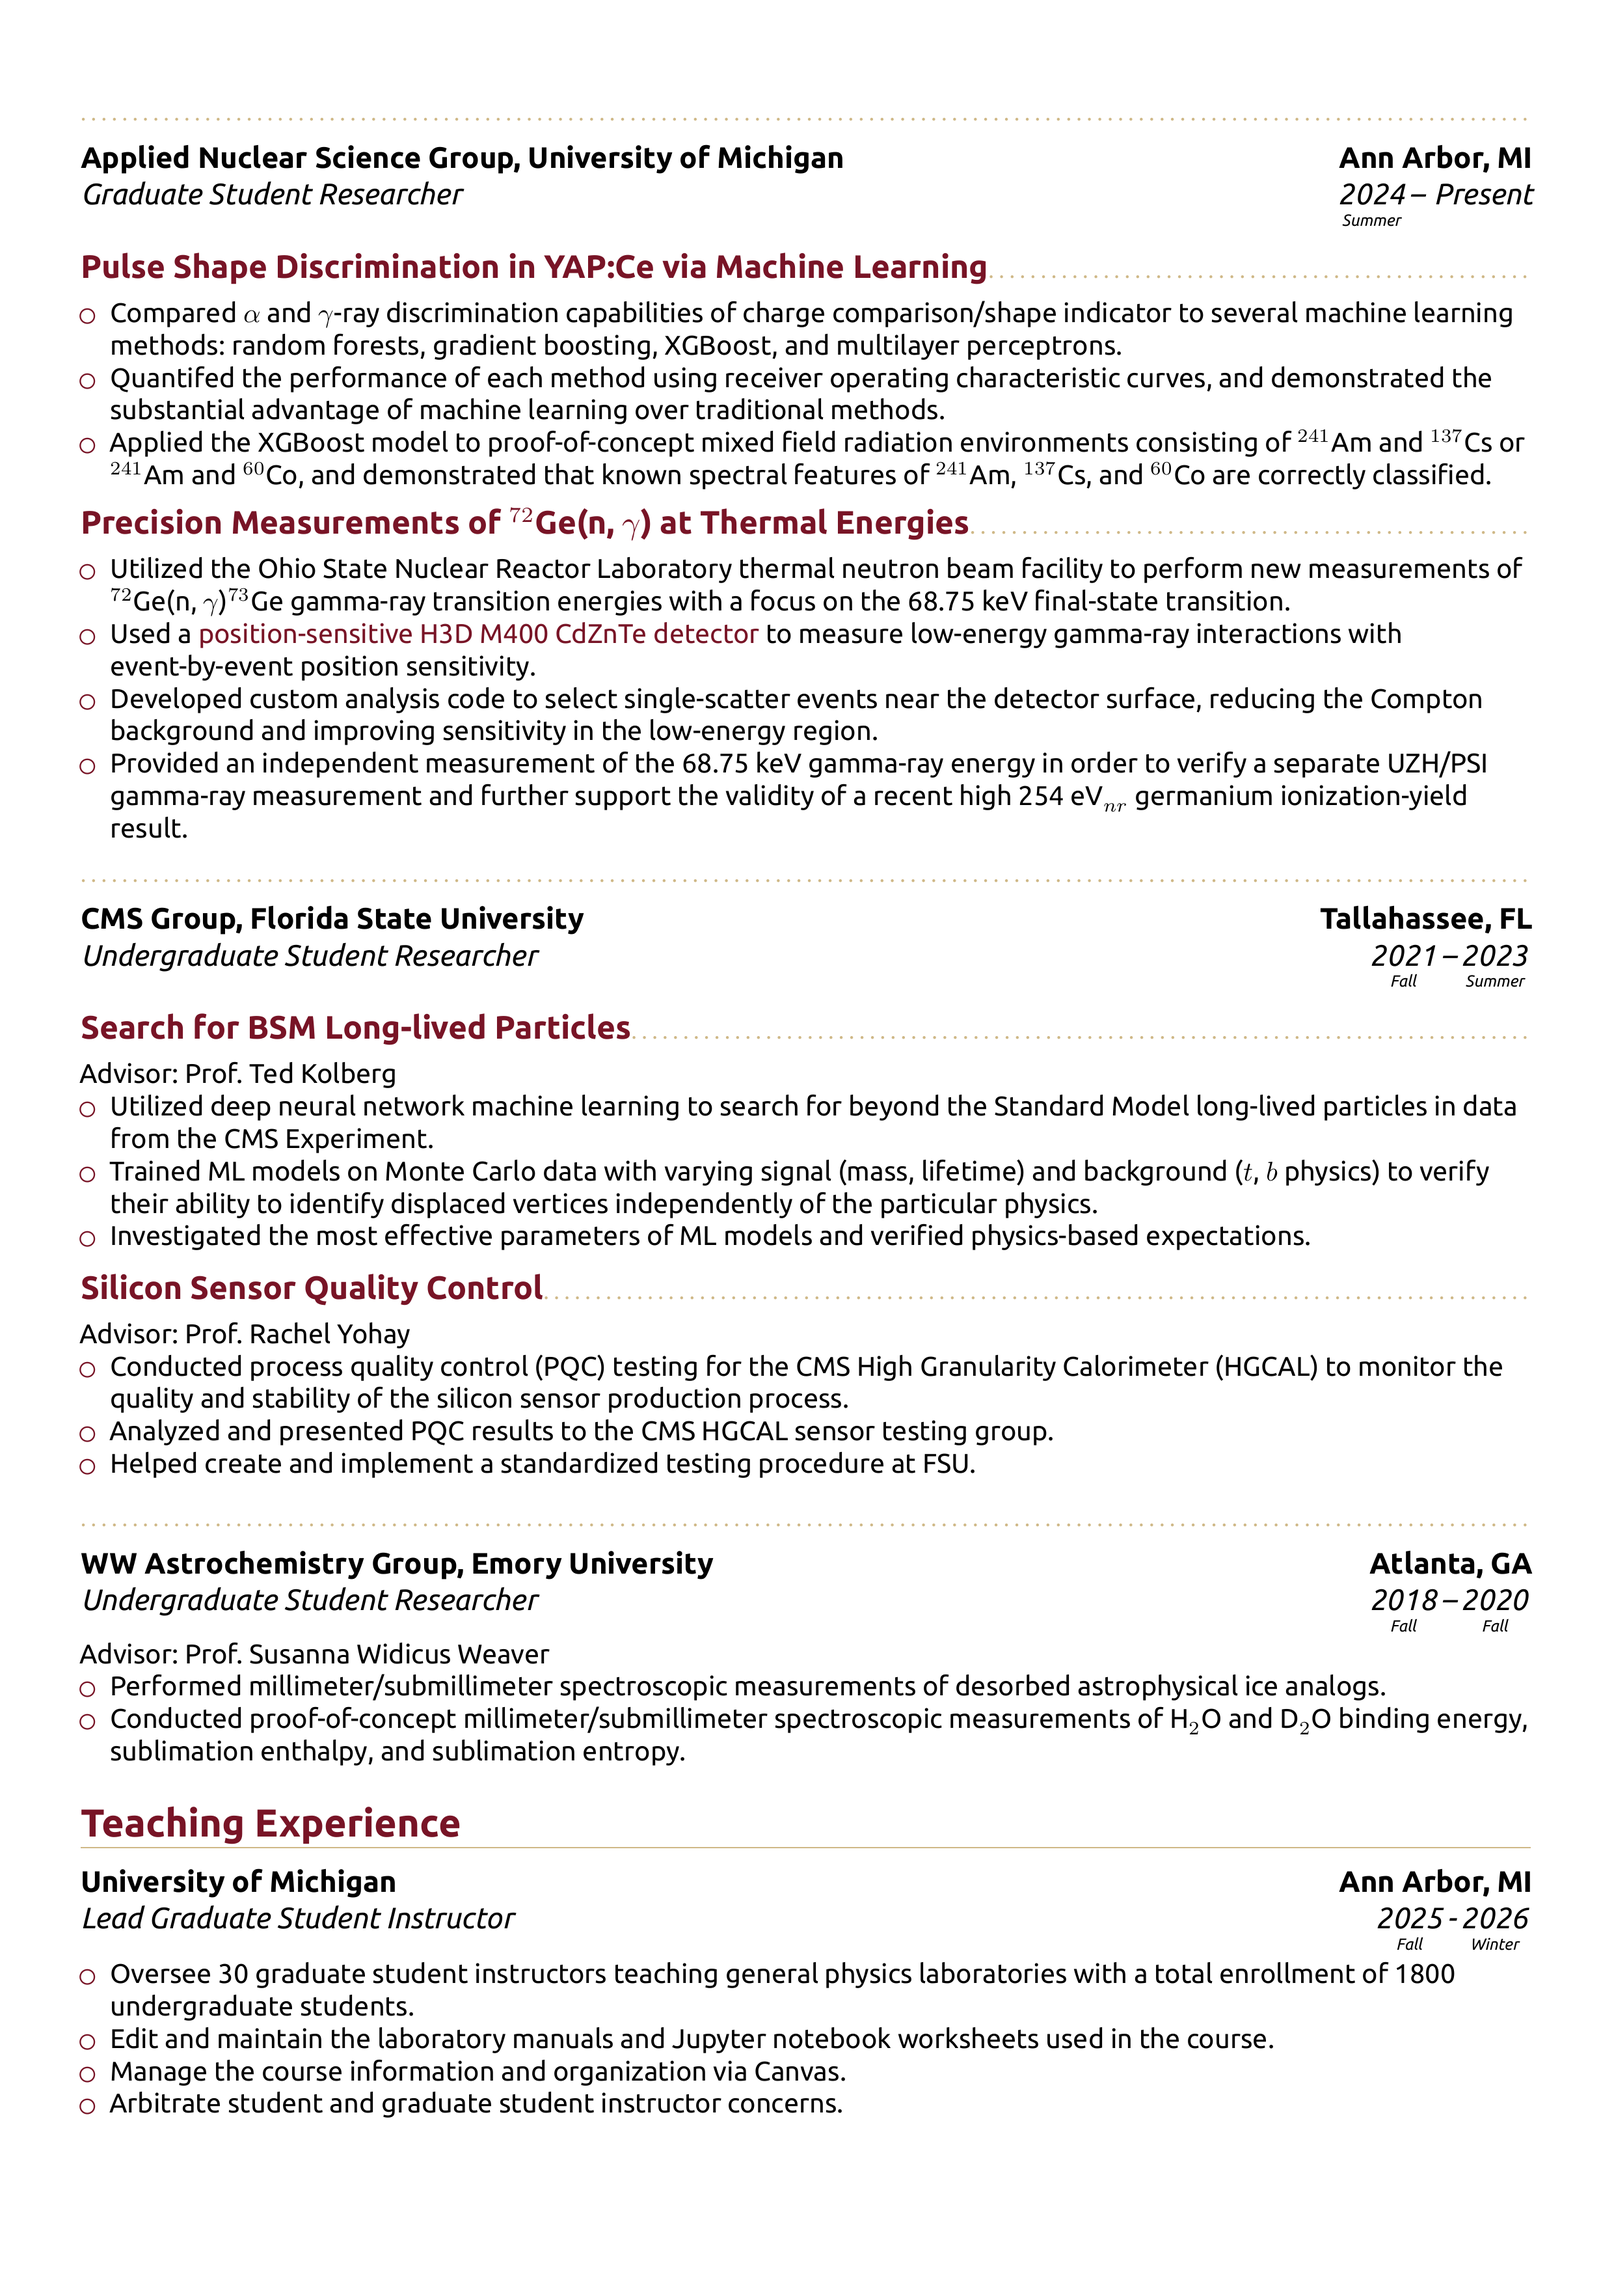
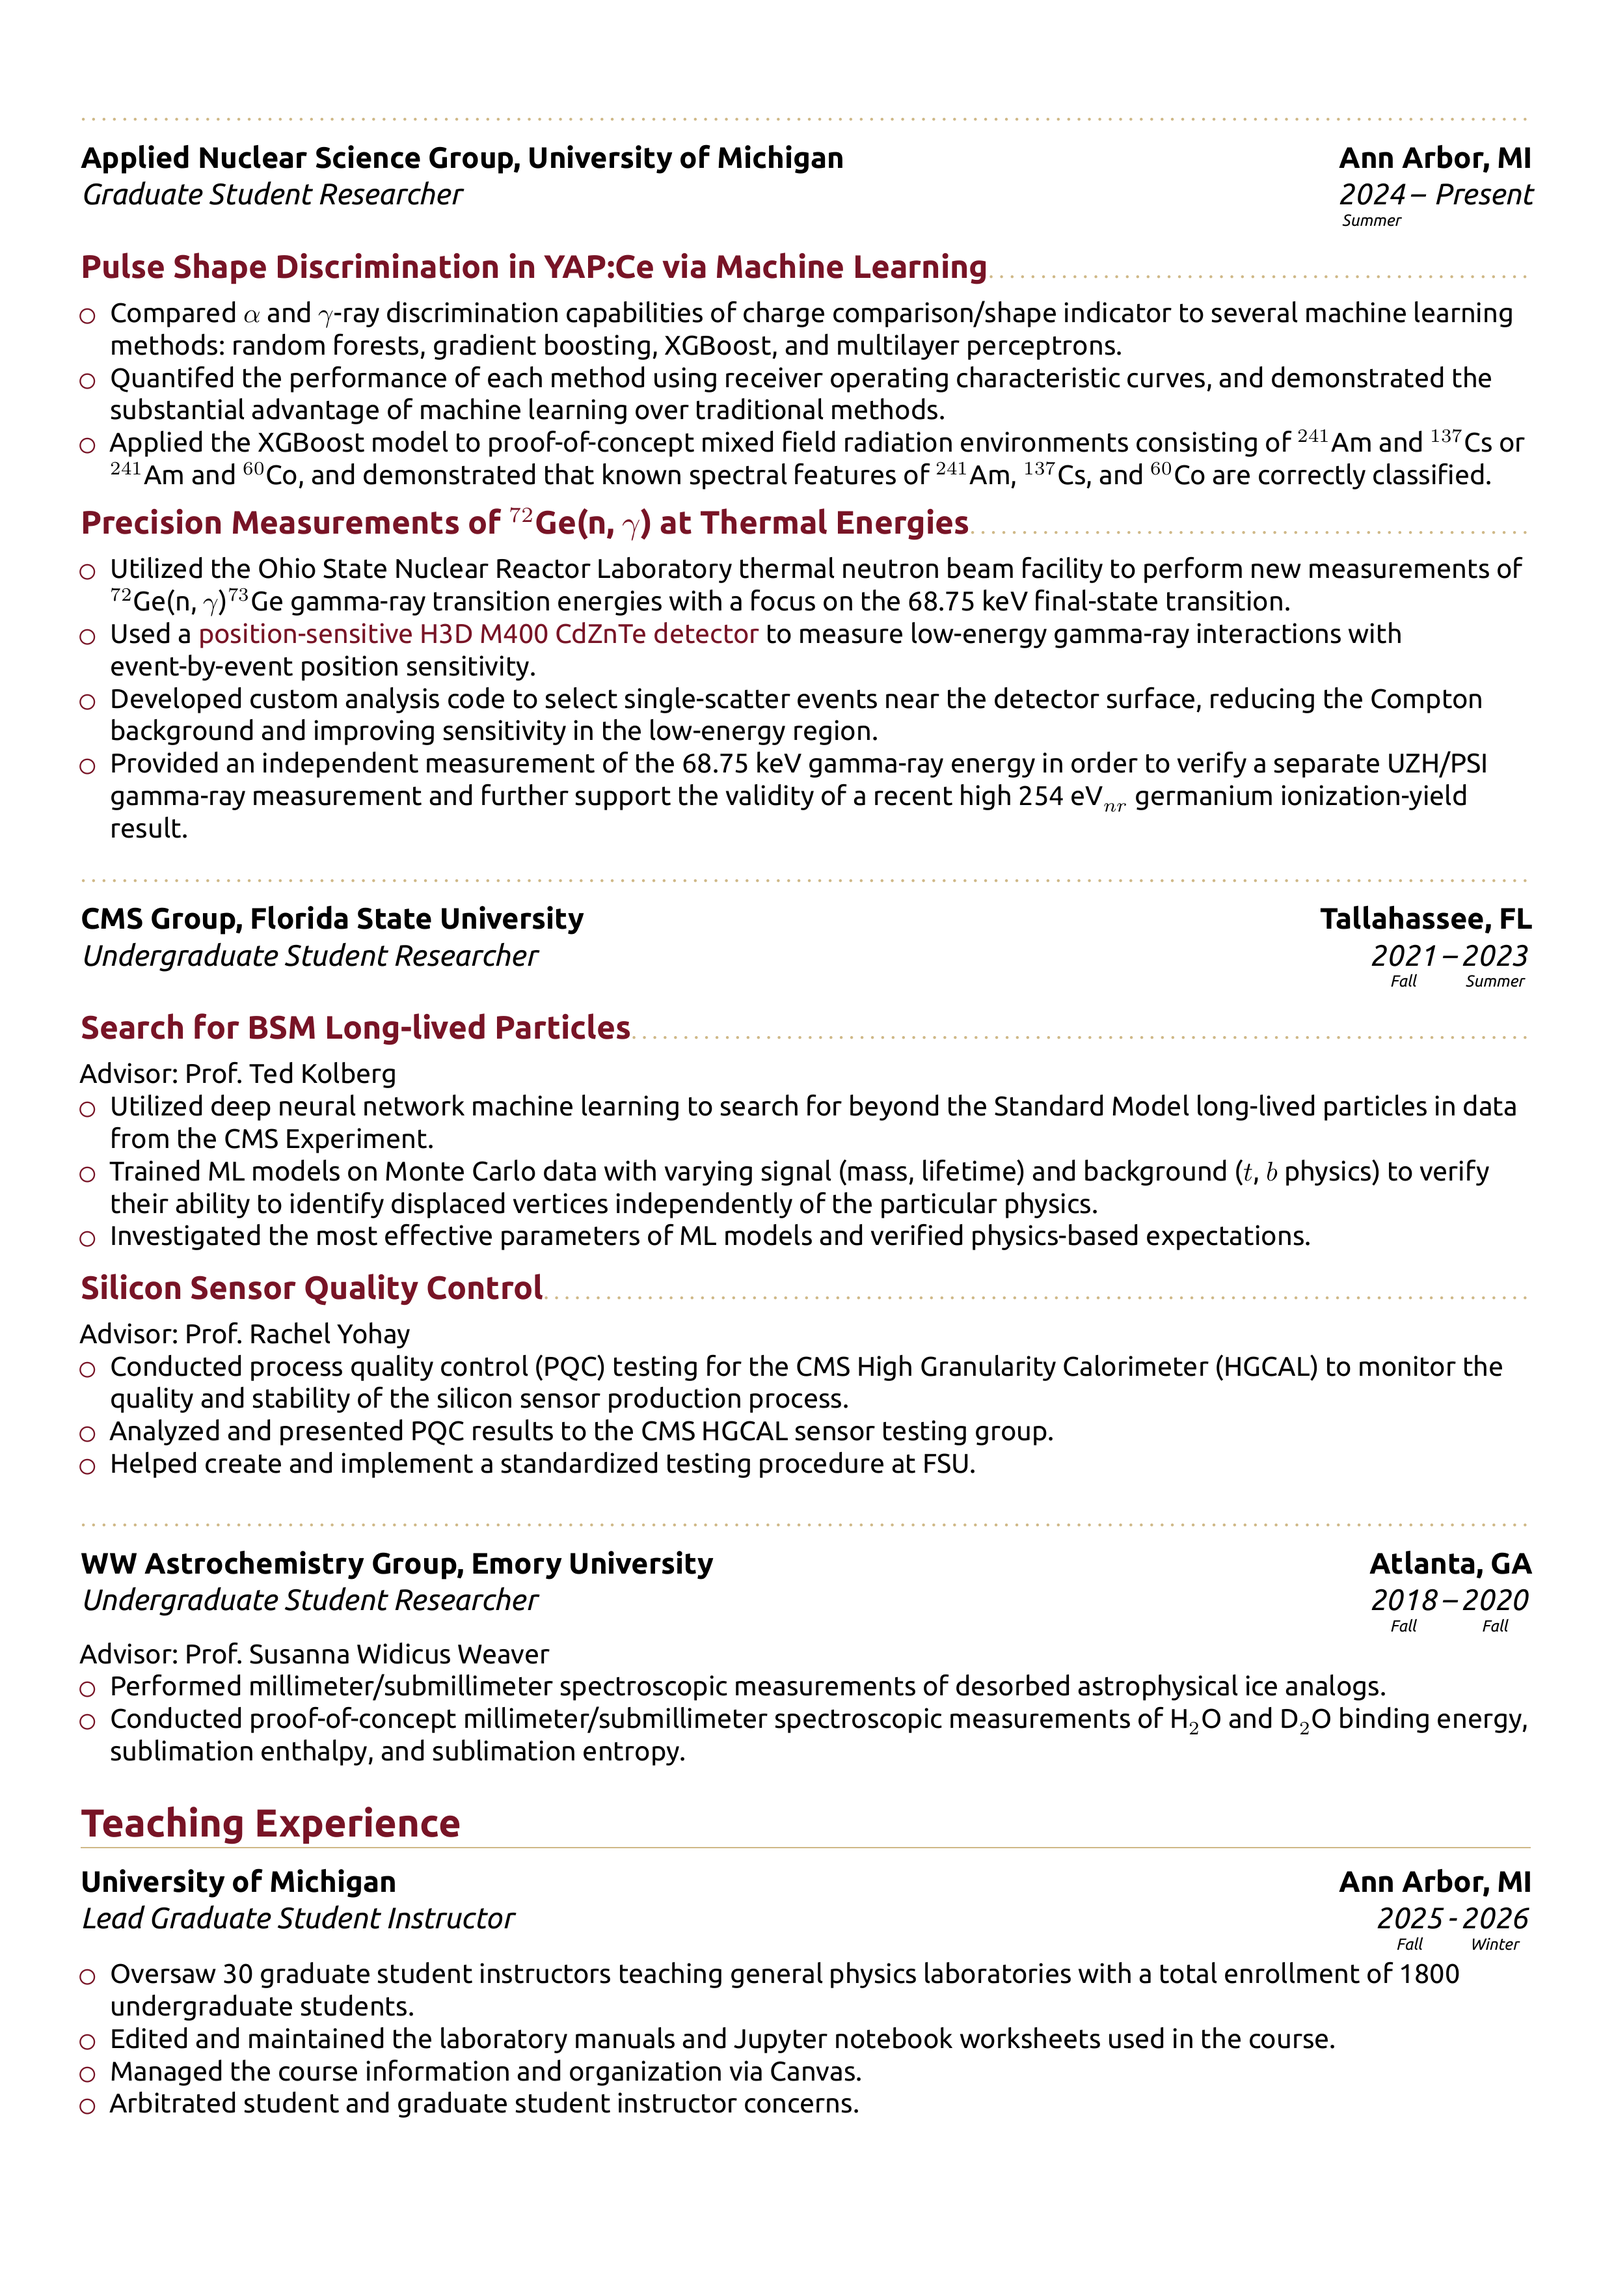
past tense!

Changed region(s): [[0.0931, 0.8389, 0.9, 0.9322]]

diff --git a/sections/teaching.tex b/sections/teaching.tex
@@ -1,10 +1,10 @@
 \section{Teaching Experience}
 \cventry{\yearabove{Fall}{2025}-\yearabove{Winter}{2026}}{Lead Graduate Student Instructor}{University of Michigan}{Ann Arbor, MI}{}{
 	\begin{itemize}
-		\item Oversee 30 graduate student instructors teaching general physics laboratories with a total enrollment of 1800 undergraduate students.
-		\item Edit and maintain the laboratory manuals and Jupyter notebook worksheets used in the course.
-		\item Manage the course information and organization via Canvas.
-		\item Arbitrate student and graduate student instructor concerns.
+		\item Oversaw 30 graduate student instructors teaching general physics laboratories with a total enrollment of 1800 undergraduate students.
+		\item Edited and maintained the laboratory manuals and Jupyter notebook worksheets used in the course.
+		\item Managed the course information and organization via Canvas.
+		\item Arbitrated student and graduate student instructor concerns.
 	\end{itemize}
 	\vspace{-0.4cm}
 }
